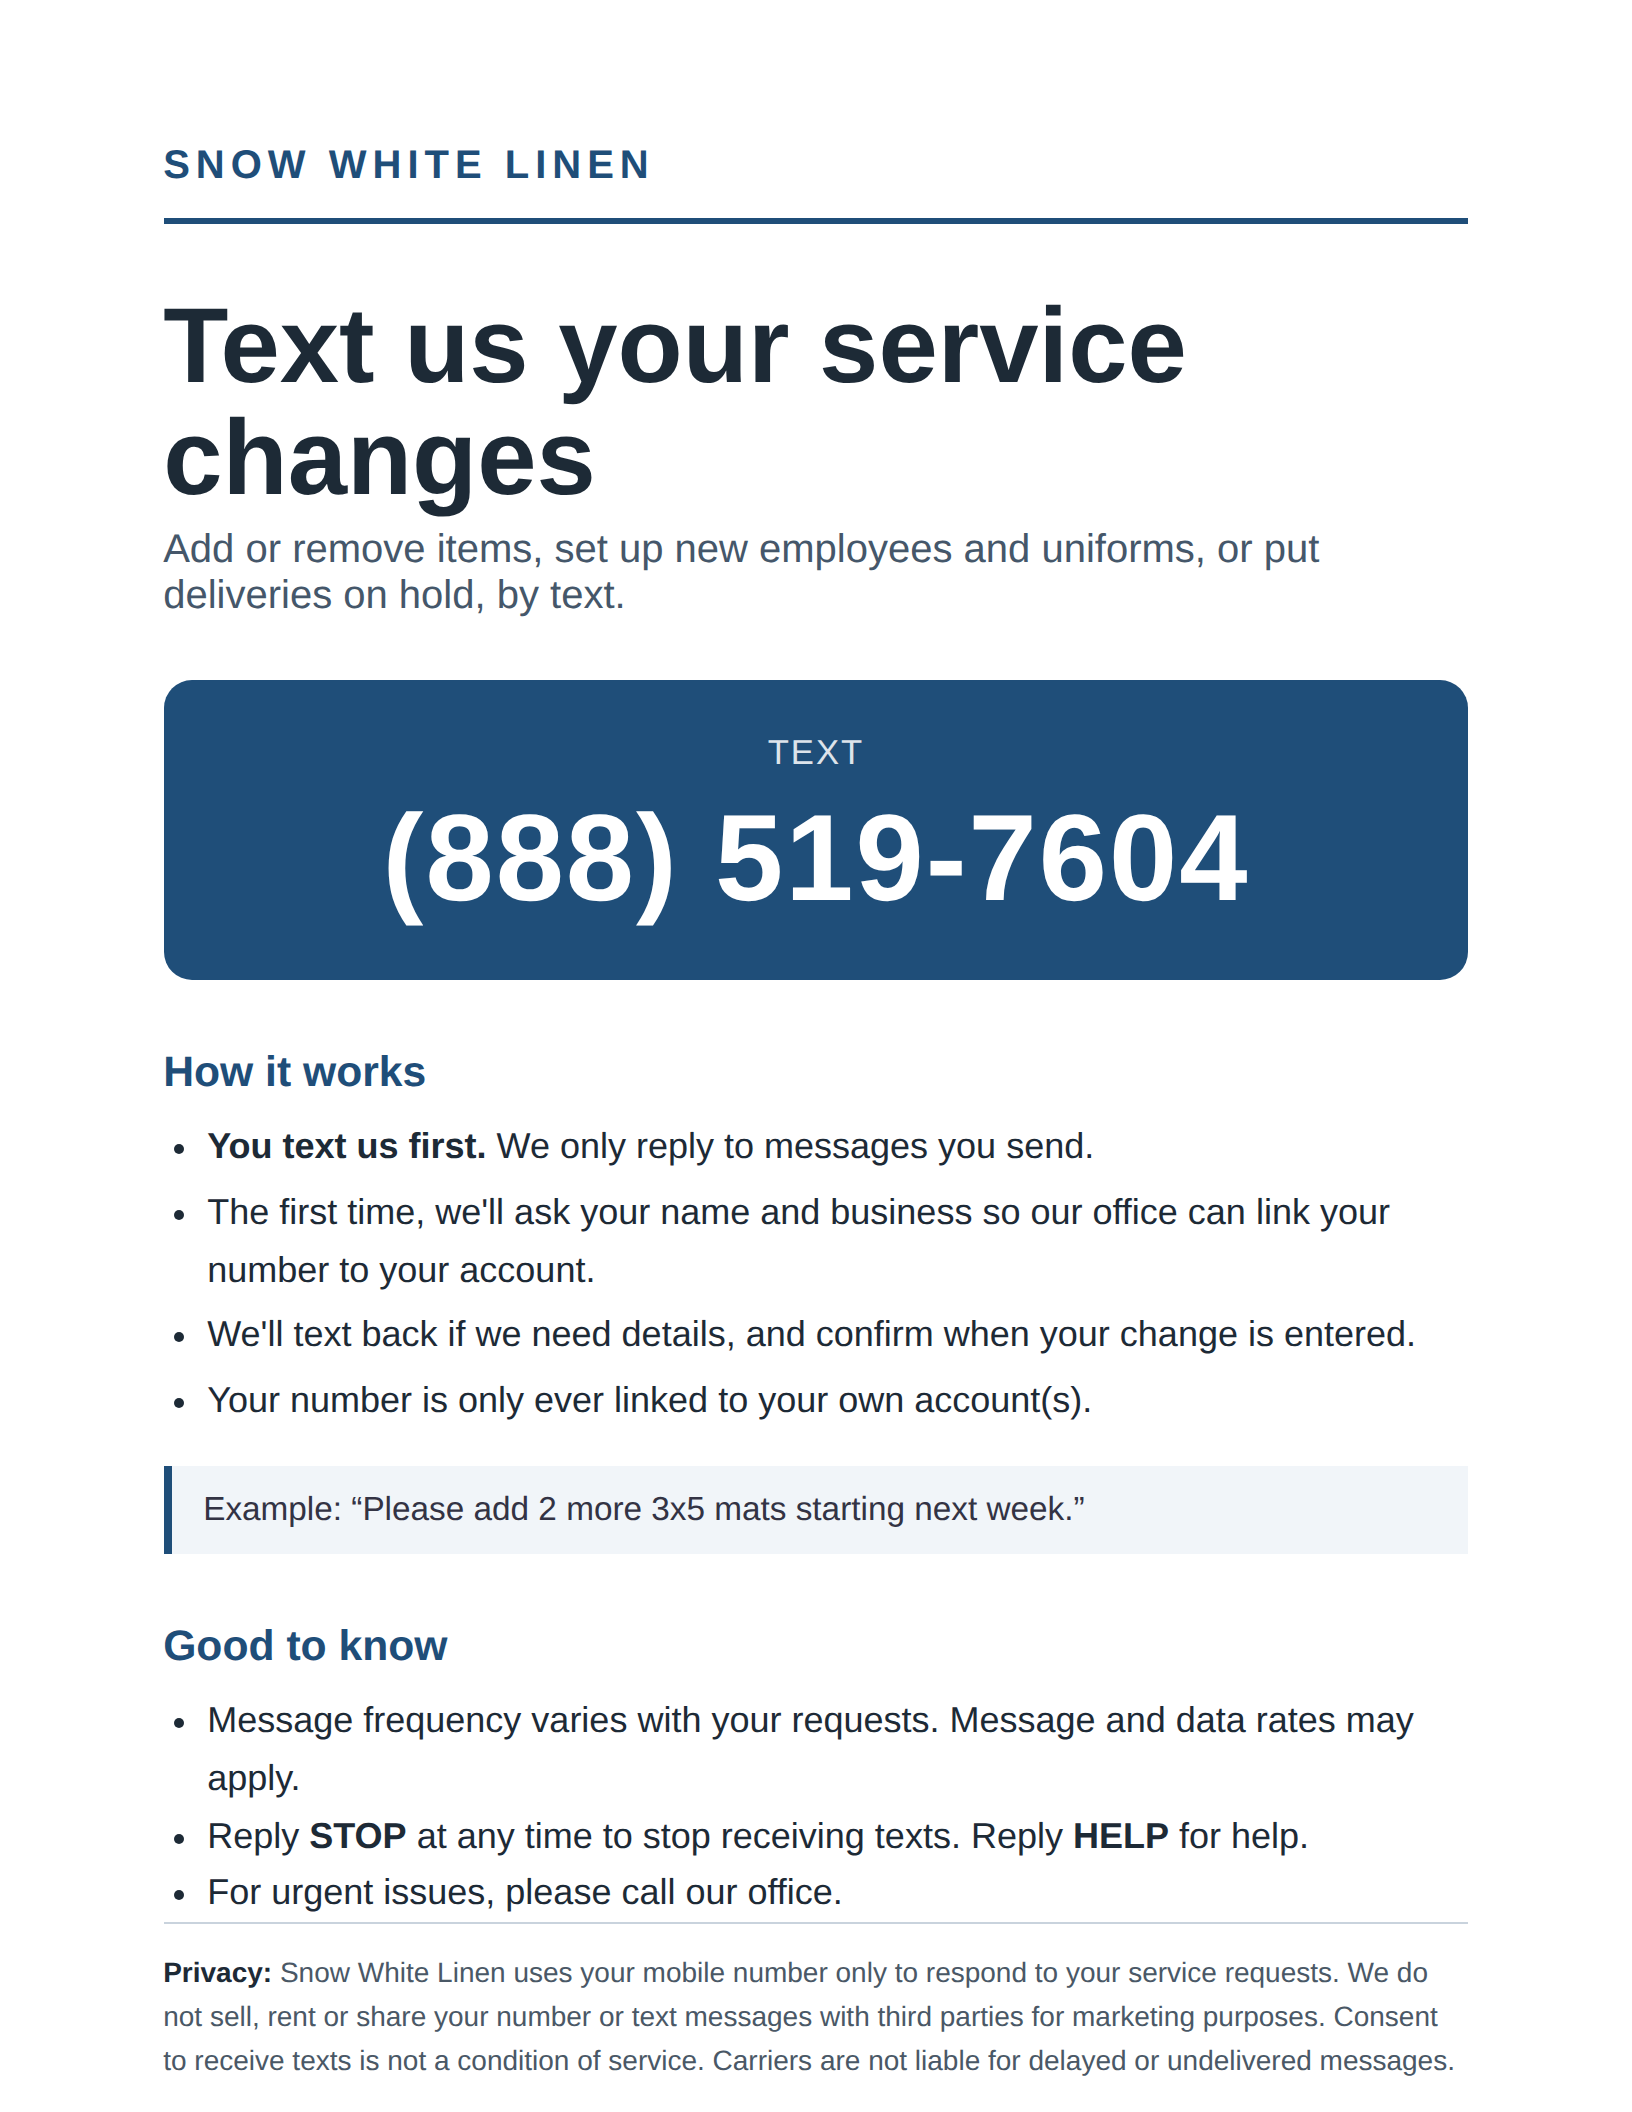
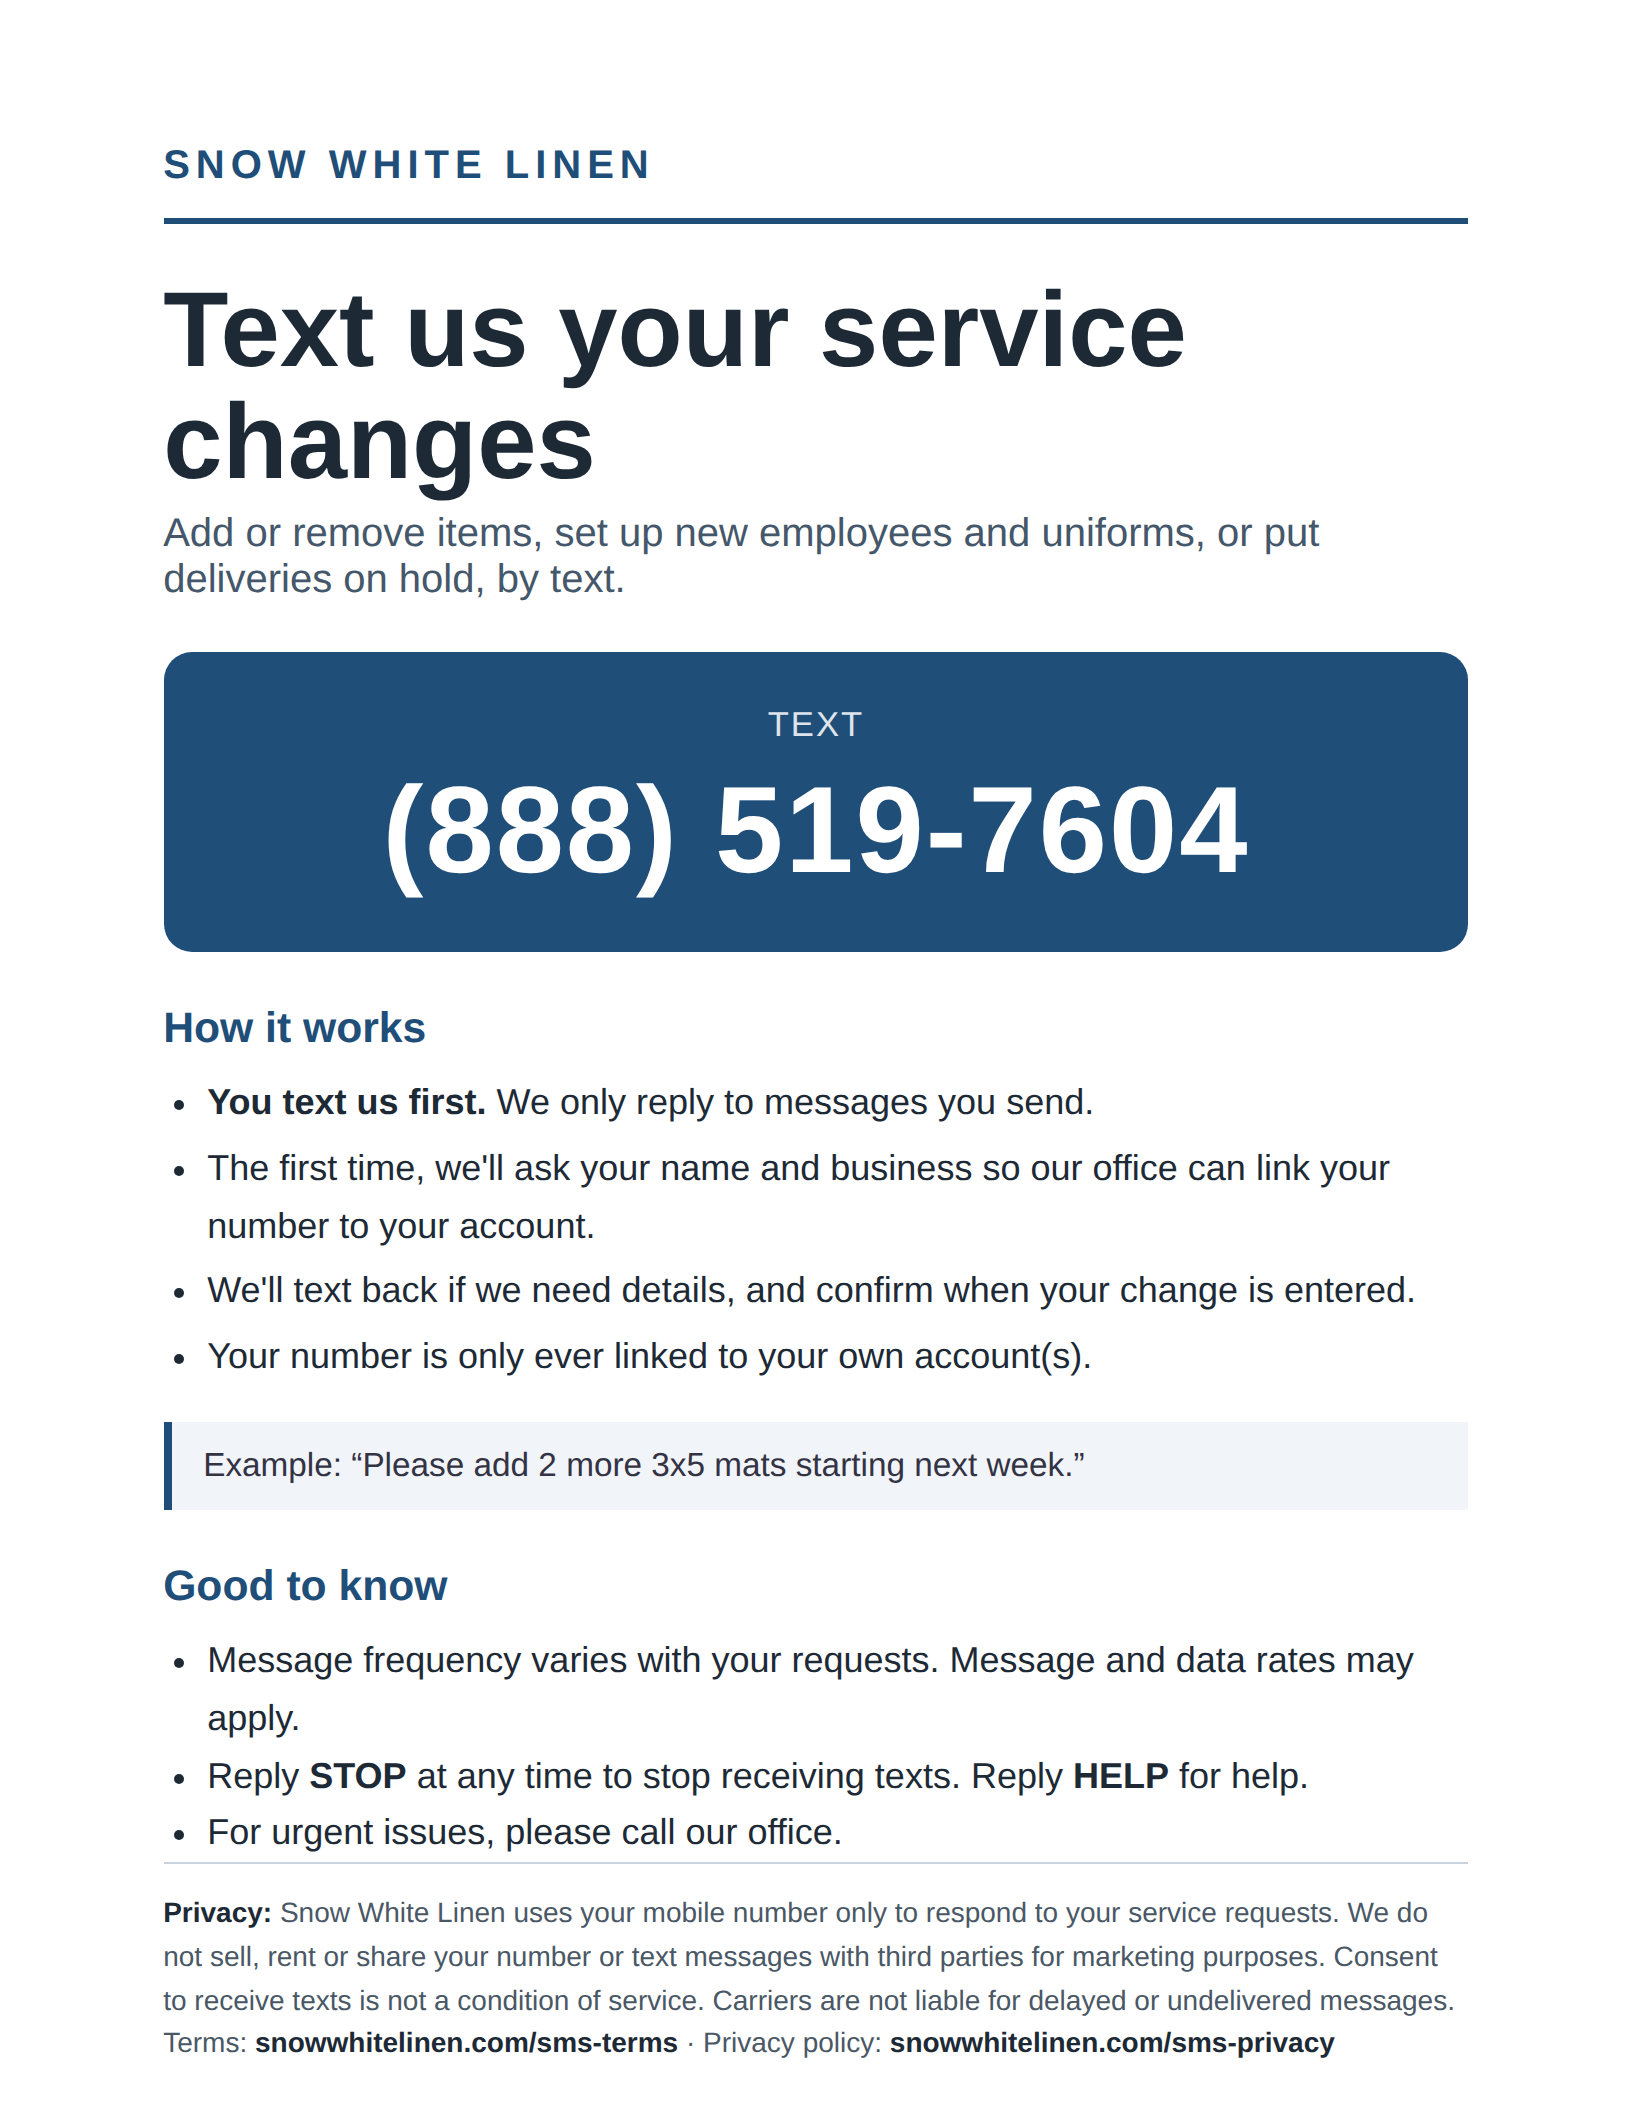
Flyer: link the SMS terms and privacy pages
Claude-Session: https://claude.ai/code/session_01Ls4eKQ1Nq7g22xRkeU3WLi

Changed region(s): [[0.0938, 0.125, 0.9062, 1.0]]

diff --git a/flyer/flyer.html b/flyer/flyer.html
@@ -5,12 +5,12 @@ body { margin:0; font-family: 'Helvetica Neue', Arial, sans-serif; color:#1d2a36
 .page { width: 8.5in; height: 11in; padding: 0.75in 0.85in; display:flex; flex-direction:column; }
 .top { border-bottom: 3px solid #1f4e79; padding-bottom: 14px; }
 .brand { font-size: 15pt; letter-spacing: 3px; text-transform: uppercase; color:#1f4e79; font-weight:700; }
-h1 { font-size: 40pt; margin: 34px 0 6px; line-height:1.05; }
-.sub { font-size: 15pt; color:#45576a; margin:0 0 30px; }
+h1 { font-size: 40pt; margin: 26px 0 6px; line-height:1.05; }
+.sub { font-size: 15pt; color:#45576a; margin:0 0 24px; }
 .number { background:#1f4e79; color:#fff; border-radius:14px; padding: 26px 30px; text-align:center; }
 .number .label { font-size: 13pt; opacity:.85; letter-spacing:1px; text-transform:uppercase; }
 .number .digits { font-size: 46pt; font-weight:700; margin-top:6px; letter-spacing:1px; }
-h2 { font-size: 16pt; margin: 34px 0 10px; color:#1f4e79; }
+h2 { font-size: 16pt; margin: 26px 0 10px; color:#1f4e79; }
 ul { margin:0; padding-left: 22px; font-size: 13.5pt; line-height:1.6; }
 .steps li { margin-bottom: 4px; }
 .example { margin-top: 14px; background:#f1f5f9; border-left: 4px solid #1f4e79; padding: 12px 16px; font-size:12.5pt; color:#334; }
@@ -37,5 +37,6 @@ ul { margin:0; padding-left: 22px; font-size: 13.5pt; line-height:1.6; }
 </ul>
 <div class="fine"><b>Privacy:</b> Snow White Linen uses your mobile number only to respond to your service requests.
 We do not sell, rent or share your number or text messages with third parties for marketing purposes.
-Consent to receive texts is not a condition of service. Carriers are not liable for delayed or undelivered messages.</div>
+Consent to receive texts is not a condition of service. Carriers are not liable for delayed or undelivered messages.
+<br>Terms: <b>snowwhitelinen.com/sms-terms</b> · Privacy policy: <b>snowwhitelinen.com/sms-privacy</b></div>
 </div></body></html>

diff --git a/flyer/make_flyer.py b/flyer/make_flyer.py
@@ -12,12 +12,12 @@ body {{ margin:0; font-family: 'Helvetica Neue', Arial, sans-serif; color:#1d2a3
 .page {{ width: 8.5in; height: 11in; padding: 0.75in 0.85in; display:flex; flex-direction:column; }}
 .top {{ border-bottom: 3px solid #1f4e79; padding-bottom: 14px; }}
 .brand {{ font-size: 15pt; letter-spacing: 3px; text-transform: uppercase; color:#1f4e79; font-weight:700; }}
-h1 {{ font-size: 40pt; margin: 34px 0 6px; line-height:1.05; }}
-.sub {{ font-size: 15pt; color:#45576a; margin:0 0 30px; }}
+h1 {{ font-size: 40pt; margin: 26px 0 6px; line-height:1.05; }}
+.sub {{ font-size: 15pt; color:#45576a; margin:0 0 24px; }}
 .number {{ background:#1f4e79; color:#fff; border-radius:14px; padding: 26px 30px; text-align:center; }}
 .number .label {{ font-size: 13pt; opacity:.85; letter-spacing:1px; text-transform:uppercase; }}
 .number .digits {{ font-size: 46pt; font-weight:700; margin-top:6px; letter-spacing:1px; }}
-h2 {{ font-size: 16pt; margin: 34px 0 10px; color:#1f4e79; }}
+h2 {{ font-size: 16pt; margin: 26px 0 10px; color:#1f4e79; }}
 ul {{ margin:0; padding-left: 22px; font-size: 13.5pt; line-height:1.6; }}
 .steps li {{ margin-bottom: 4px; }}
 .example {{ margin-top: 14px; background:#f1f5f9; border-left: 4px solid #1f4e79; padding: 12px 16px; font-size:12.5pt; color:#334; }}
@@ -44,7 +44,8 @@ ul {{ margin:0; padding-left: 22px; font-size: 13.5pt; line-height:1.6; }}
 </ul>
 <div class="fine"><b>Privacy:</b> Snow White Linen uses your mobile number only to respond to your service requests.
 We do not sell, rent or share your number or text messages with third parties for marketing purposes.
-Consent to receive texts is not a condition of service. Carriers are not liable for delayed or undelivered messages.</div>
+Consent to receive texts is not a condition of service. Carriers are not liable for delayed or undelivered messages.
+<br>Terms: <b>snowwhitelinen.com/sms-terms</b> · Privacy policy: <b>snowwhitelinen.com/sms-privacy</b></div>
 </div></body></html>"""
 out = pathlib.Path(__file__).parent
 (out / "flyer.html").write_text(html)
